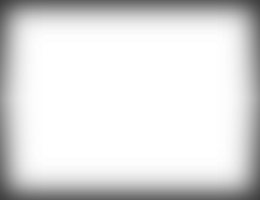
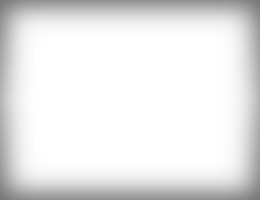
Support for Random updates navigation added.
* Shadow overlays made more transparent.
 * Uploading files now support files with non-word characters properly.

Changed region(s): [[0.0, 0.0, 1.0, 1.0]]

diff --git a/application/helpers/MY_upload.php b/application/helpers/MY_upload.php
@@ -1,0 +1,74 @@
+<?php defined('SYSPATH') OR die('No direct access allowed.');
+/**
+ * Upload helper class for working with the global $_FILES
+ * array and Validation library.
+ *
+ * $Id: upload.php 4134 2009-03-28 04:37:54Z zombor $
+ *
+ * @package    Core
+ * @author     Kohana Team
+ * @copyright  (c) 2007-2008 Kohana Team
+ * @license    http://kohanaphp.com/license.html
+ */
+class upload extends upload_Core {
+
+	/**
+	 * Save an uploaded file to a new location.
+	 *
+	 * @param   mixed    name of $_FILE input or array of upload data
+	 * @param   string   new filename
+	 * @param   string   new directory
+	 * @param   integer  chmod mask
+	 * @return  string   full path to new file
+	 */
+	public static function save($file, $filename = NULL, $directory = NULL, $chmod = 0644)
+	{
+		// Load file data from FILES if not passed as array
+		$file = is_array($file) ? $file : $_FILES[$file];
+
+		if ($filename === NULL)
+		{
+			// Use the default filename, with a timestamp pre-pended
+			$filename = time().$file['name'];
+		}
+
+		if (Kohana::config('upload.remove_spaces') === TRUE)
+		{
+			// Remove spaces from the filename
+			$filename = preg_replace('/[\s]+/', '_', $filename);
+			$filename = preg_replace('/[^\w.-]+/', '_', $filename);
+		}
+
+		if ($directory === NULL)
+		{
+			// Use the pre-configured upload directory
+			$directory = Kohana::config('upload.directory', TRUE);
+		}
+
+		// Make sure the directory ends with a slash
+		$directory = rtrim($directory, '/').'/';
+
+		if ( ! is_dir($directory) AND Kohana::config('upload.create_directories') === TRUE)
+		{
+			// Create the upload directory
+			mkdir($directory, 0777, TRUE);
+		}
+
+		if ( ! is_writable($directory))
+			throw new Kohana_Exception('upload.not_writable', $directory);
+
+		if (is_uploaded_file($file['tmp_name']) AND move_uploaded_file($file['tmp_name'], $filename = $directory.$filename))
+		{
+			if ($chmod !== FALSE)
+			{
+				// Set permissions on filename
+				chmod($filename, $chmod);
+			}
+
+			// Return new file path
+			return $filename;
+		}
+
+		return FALSE;
+	}
+}

diff --git a/application/controllers/updates.php b/application/controllers/updates.php
@@ -132,7 +132,7 @@ class Updates_Controller extends Core_Controller {
 
 		// Check if we can feature this update's project.
 		if ($this->uid == $update_information['uid'] && $update_information['uid'] != 1) {
-			if ($update_view->display0 == 'image') {
+			if (isset($update_view->display0) && $update_view->display0 == 'image') {
 				list($width, $height, $type, $attr) = getimagesize(DOCROOT .'uploads/files/'. $update_information['filename0'] .'.'. $update_information['ext0']);
 				if ($width >= 808) {
 					$update_view->feature = TRUE;
@@ -386,6 +386,24 @@ class Updates_Controller extends Core_Controller {
 				}
 			}
 		}
+	}
+
+	/**
+	 * Views a random update.
+	 *
+	 * @return null
+	 */
+	public function random()
+	{
+		$update_model = new Update_Model;
+
+		$random_update = $update_model->update_number_random(FALSE, 1);
+		foreach ($random_update as $row) {
+			$upid = $row->id;
+		}
+
+		// Load that update!
+		$this->view($upid);
 	}
 
 	/**

diff --git a/application/models/update.php b/application/models/update.php
@@ -201,8 +201,7 @@ class Update_Model extends Model {
 	 */
 	public function update_number($uid)
 	{
-		$db = $this->db;
-		$count = $db->from('updates')->where(array('uid' => $uid))->get()->count();
+		$count = $this->db->from('updates')->where(array('uid' => $uid))->get()->count();
 		return $count;
 	}
 
@@ -210,13 +209,17 @@ class Update_Model extends Model {
 	 * Returns a random number of updates by a user.
 	 *
 	 * @param int $uid The user ID.
+	 * @param int $no The number of random updates to pull.
 	 *
 	 * @return int
 	 */
-	public function update_number_random($uid)
+	public function update_number_random($uid = FALSE, $no = 5)
 	{
-		$db = $this->db;
-		$get = $db->from('updates')->where(array('uid' => $uid))->orderby(NULL, 'RAND()')->limit(5)->get();
+		$get = $this->db->from('updates');
+		if ($uid) {
+			$get = $get->where(array('uid' => $uid));
+		}
+		$get = $get->orderby(NULL, 'RAND()')->limit($no)->get();
 		return $get;
 	}
 

diff --git a/application/views/template/header.php b/application/views/template/header.php
@@ -119,7 +119,7 @@ if (($this->uri->segment(1) == 'updates' && $this->uri->segment(2) == 'add') || 
 			<ul id="icon-navigation">
 				<li><a href="<?php echo url::base(); ?>profiles/<?php if ($this->logged_in == TRUE) { echo 'view/'. $this->username .'/'; } ?>"><img src="<?php echo url::base(); ?>images/profile.png" width="39" height="40" alt="Profile" title="Profile" /></a></li>
                 <li><a href="<?php echo url::base(); ?>updates/add/"><img src="<?php echo url::base(); ?>images/update.png" width="39" height="40" alt="Update" title="Update" /></a></li>
-				<li><img src="<?php echo url::base(); ?>images/random.png" width="39" height="40" alt="Random" title="Random" /></li>
+				<li><a href="<?php echo url::base(); ?>updates/random/"><img src="<?php echo url::base(); ?>images/random.png" width="39" height="40" alt="Random" title="Random" /></a></li>
 			</ul>
 
             <ul id="text-navigation">
